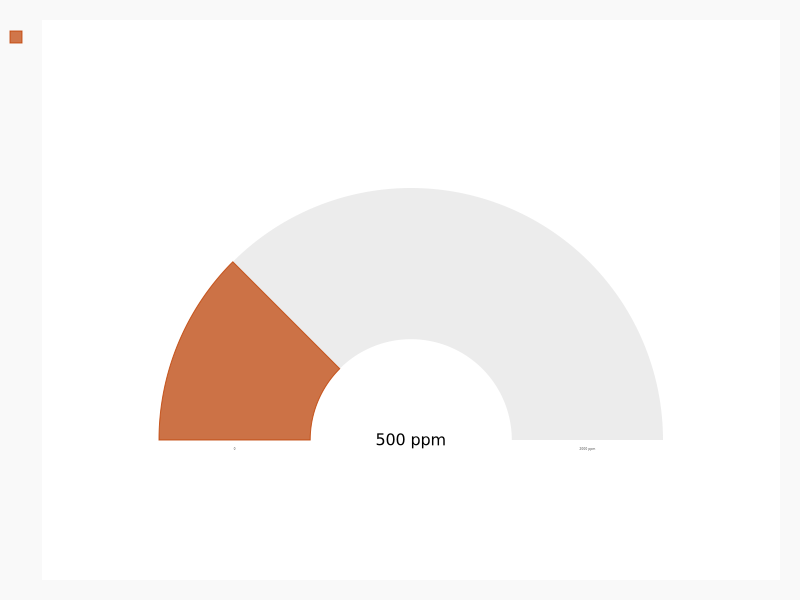
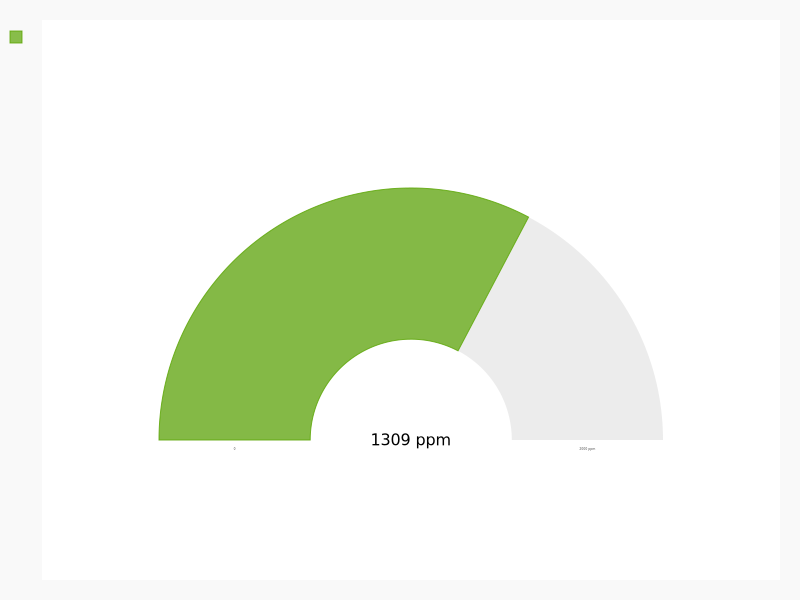
Stand Informationsnachmittag

Changed region(s): [[0.1875, 0.3, 0.6562, 0.75], [0.4688, 0.72, 0.5625, 0.75], [0.0, 0.03, 0.0312, 0.09]]

diff --git a/html/graph/sixhourstemp.html b/html/graph/sixhourstemp.html
@@ -1,0 +1,77 @@
+<html>
+   <head>
+      <title>Temperature Charts</title>
+      <script src = "js/jquery.min.js"></script>
+      <script src = "js/highcharts.js"></script>  
+   </head>
+   
+   <body>
+	<div id = "container-sixhours" style = "width: 100%; height: 400px; margin: 0 auto"></div>
+      <script type="text/javascript">
+	console.log("test")
+         $(document).ready(function() {   
+		    
+			 $.post('sql-sixhours.php', {x:123, y:'abcdef', z:4}, 
+				function(data) {
+				  var json = data;
+			  
+			  
+			  console.log(json);
+			
+			var parsed = JSON.parse(json);
+
+			var arr = [];
+
+			for(var x in parsed){
+			  arr.push(parsed[x]);
+			}
+
+			var temperatur = [parseFloat(arr[0].Temperatur),parseFloat(arr[1].Temperatur),parseFloat(arr[2].Temperatur),parseFloat(arr[3].Temperatur),parseFloat(arr[4].Temperatur),parseFloat(arr[5].Temperatur),parseFloat(arr[6].Temperatur),parseFloat(arr[7].Temperatur),parseFloat(arr[8].Temperatur),parseFloat(arr[9].Temperatur),parseFloat(arr[10].Temperatur),parseFloat(arr[11].Temperatur)];
+			console.log(temperatur)
+			
+			var month = [arr[0].Tag,arr[1].Tag,arr[2].Tag,arr[3].Tag,arr[4].Tag,arr[5].Tag,arr[6].Tag,arr[7].Tag,arr[8].Tag,arr[9].Tag,arr[10].Tag,arr[11].Tag];
+			console.log(month)
+			
+			var title = {
+               text: 'Last 6 Hours Average Temperature'   
+            };
+            var subtitle = {
+               text: 'TI SimpleLink CC2650'
+            };
+			
+            var xAxis = {
+               categories: month
+            };
+            var yAxis = {
+               title: {
+                  text: 'Temperatur (\xB0C)'
+               }
+            };
+            var plotOptions = {
+               line: {
+                  dataLabels: {
+                     enabled: true
+                  },
+                  enableMouseTracking: false
+               }
+            };
+
+			var series = [{
+                  name: 'Temperatur Sensor',
+                  data: temperatur
+               }
+            ];
+   
+            var json = {};
+            json.title = title;
+            json.subtitle = subtitle;
+            json.xAxis = xAxis;
+            json.yAxis = yAxis;  
+            json.series = series;
+            json.plotOptions = plotOptions;
+            $('#container-sixhours').highcharts(json); 
+			});
+         });
+      </script>
+   </body>  
+</html>

diff --git a/html/webakvar.html b/html/webakvar.html
@@ -9,13 +9,13 @@
 <body>
     <center> <h1 style="font-size:40pt;">Klassenklima</h1></center>
     <center> <h1 style="font-size:30pt;">Temperatur:</h1></center>
-    <a href="https://energyfussl.at/graph/2/"> <img id="temp"src="/png/TempHalfGaugeCrop.png" height="100%" width="100%">
+    <a href="https://energyfussl.at/graph/2/"> <img id="temp"src="/png/TempHalfGaugeCrop.png?" height="100%" width="100%">
     <center> <h1 style="font-size:30pt;">Luftfeuchtigkeit:</h1></center>
-    <a href="https://energyfussl.at/graph/2/"><img id="hum" src="/png/HumHalfGaugeCrop.png" height="100%" width="100%">
+    <a href="https://energyfussl.at/graph/2/"><img id="hum" src="/png/HumHalfGaugeCrop.png?" height="100%" width="100%">
     <center> <h1 style="font-size:30pt;">Helligkeit:</h1></center>
-    <a href="https://energyfussl.at/graph/2/"><img id="bat" src="/png/LuxHalfGaugeCrop.png" height="100%" width="100%">
+    <a href="https://energyfussl.at/graph/2/"><img id="bat" src="/png/LuxHalfGaugeCrop.png?" height="100%" width="100%">
     <center> <h1 style="font-size:30pt;">Lufdruck:</h1></center>
-    <a href="https://energyfussl.at/graph/2/"><img id="bar" src="/png/BarHalfGaugeCrop.png" height="100%" width="100%">
+    <a href="https://energyfussl.at/graph/2/"><img id="bar" src="/png/BarHalfGaugeCrop.png?" height="100%" width="100%">
         
     <script type="text/javascript">
     var myVar = setInterval(function() {

diff --git a/html/webak.html b/html/webak.html
@@ -39,16 +39,16 @@
 </head>
 <body onload="startTime()">
 
-    <img id="temp"src="/png/TempHalfGaugeCrop.png" height="40%" width="48%">
-    <img id="hum" src="/png/HumHalfGaugeCrop.png" height="40%" width="48%">
-    <img id="co2" src="/png/Co2HalfGaugeCrop.png" height="40%" width="48%">
+    <img id="temp"src="/png/TempHalfGaugeCrop.png?" height="40%" width="48%">
+    <img id="hum" src="/png/HumHalfGaugeCrop.png?" height="40%" width="48%">
+    <img id="co2" src="/png/Co2HalfGaugeCrop.png?" height="40%" width="48%">
  <div id="txt">
     </div>
     <div  id="txt2">
     </div>
 
-    <img id="bar" src="/png/BarHalfGaugeCrop.png" height="40%" width="48%">
-    <img id="lux" src="/png/LuxHalfGaugeCrop.png" height="40%" width="48%">
+    <img id="bar" src="/png/BarHalfGaugeCrop.png?" height="40%" width="48%">
+    <img id="lux" src="/png/LuxHalfGaugeCrop.png?" height="40%" width="48%">
 
     <script type="text/javascript">
     var myVar = setInterval(function() {

diff --git a/python/mainv5.py b/python/mainv5.py
@@ -455,8 +455,7 @@ def pushtosql():
    print(bar)
    lux=getlux()
    print(lux)
-   #co2=int(getco2())
-   co2=500
+   co2=int(getco2())
    print(co2)
    byt=100
    if(temp>-275 and hum>-1 and bar>800 and lux>-1 and byt>-1 and co2>-1):
